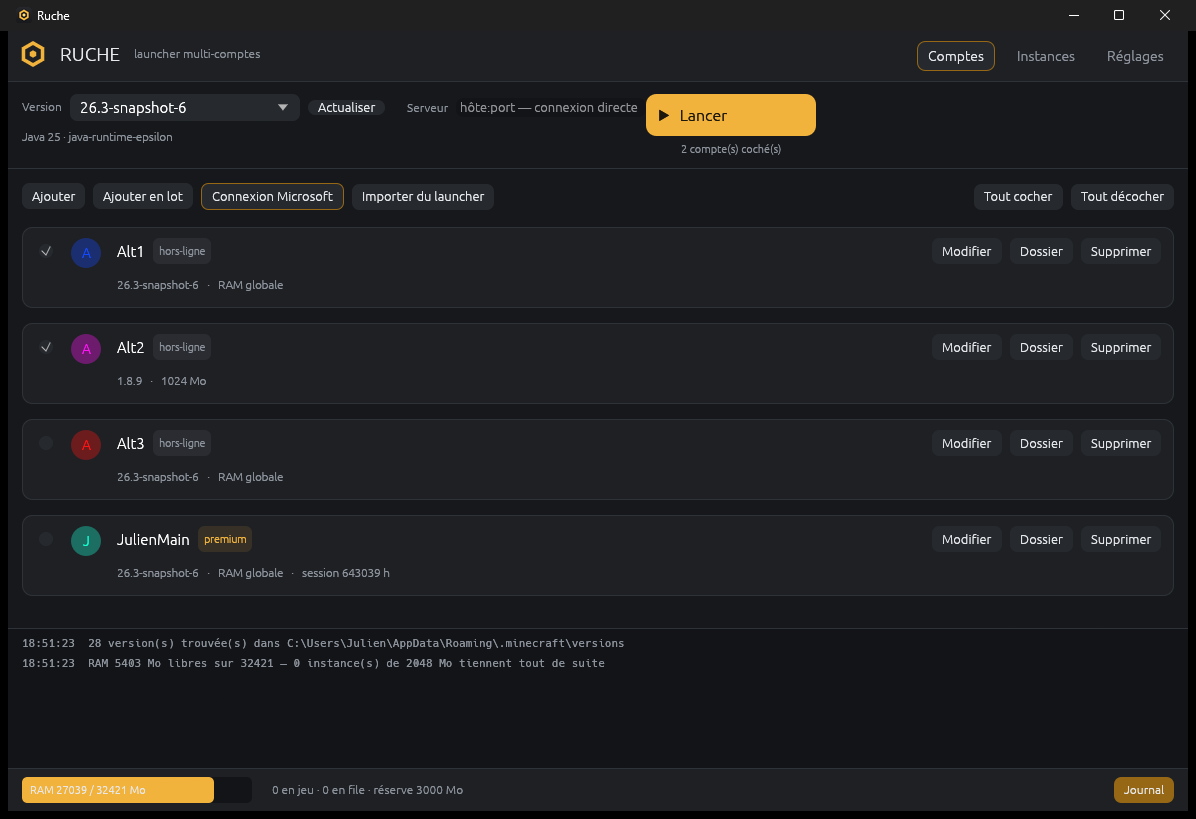
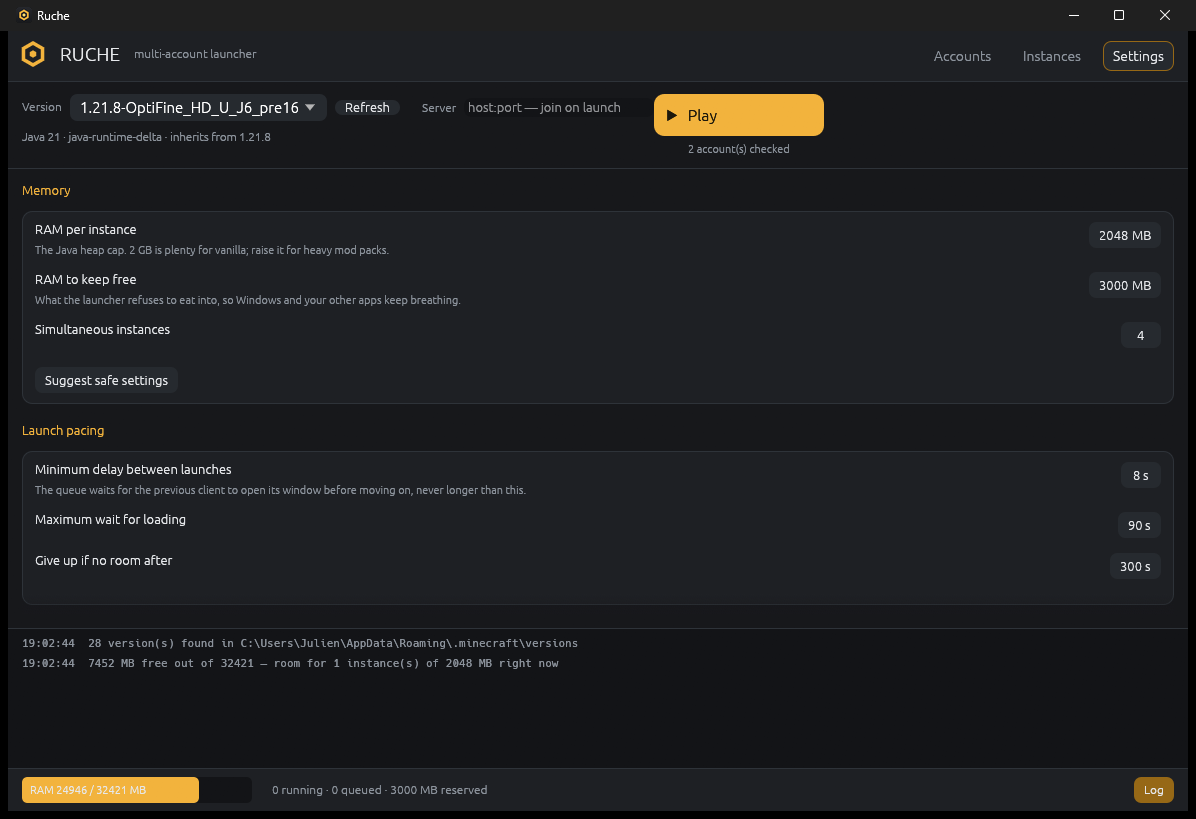
Capture anglaise pour le README anglais

diff --git a/README.en.md b/README.en.md
@@ -13,7 +13,7 @@ It downloads no versions of its own: it reuses the official installation
 (`%APPDATA%\.minecraft`), including vanilla, OptiFine, Fabric and Forge — the
 `inheritsFrom` chain is resolved.
 
-![Ruche](docs/capture.png)
+![Ruche](docs/capture-en.png)
 
 ## Install
 
